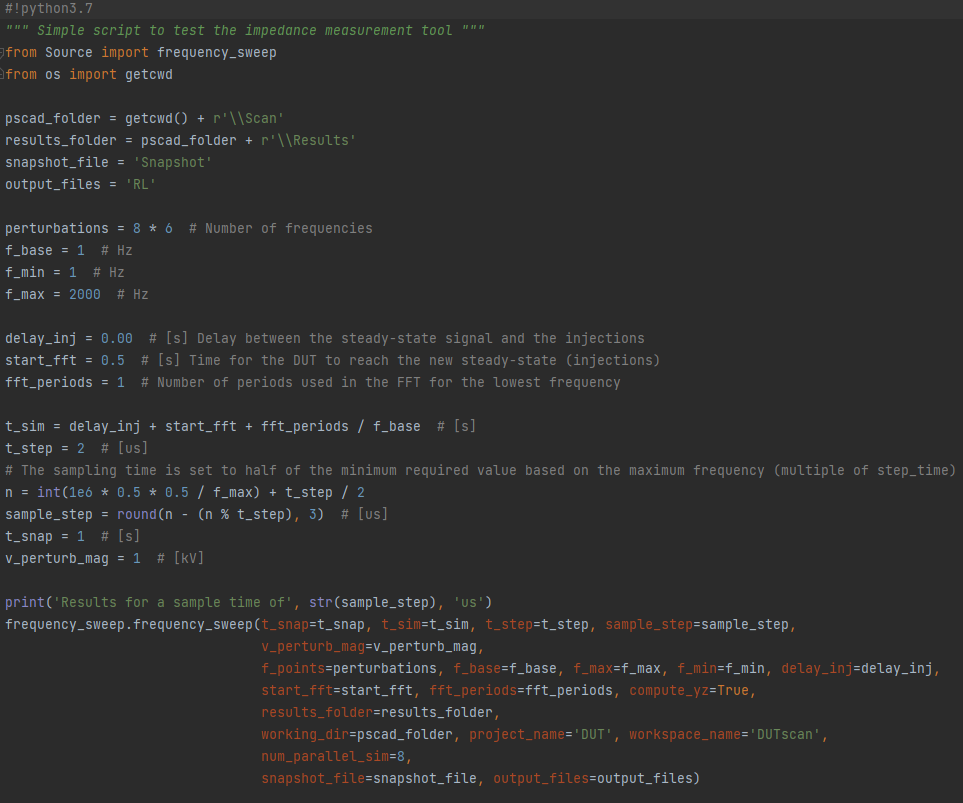
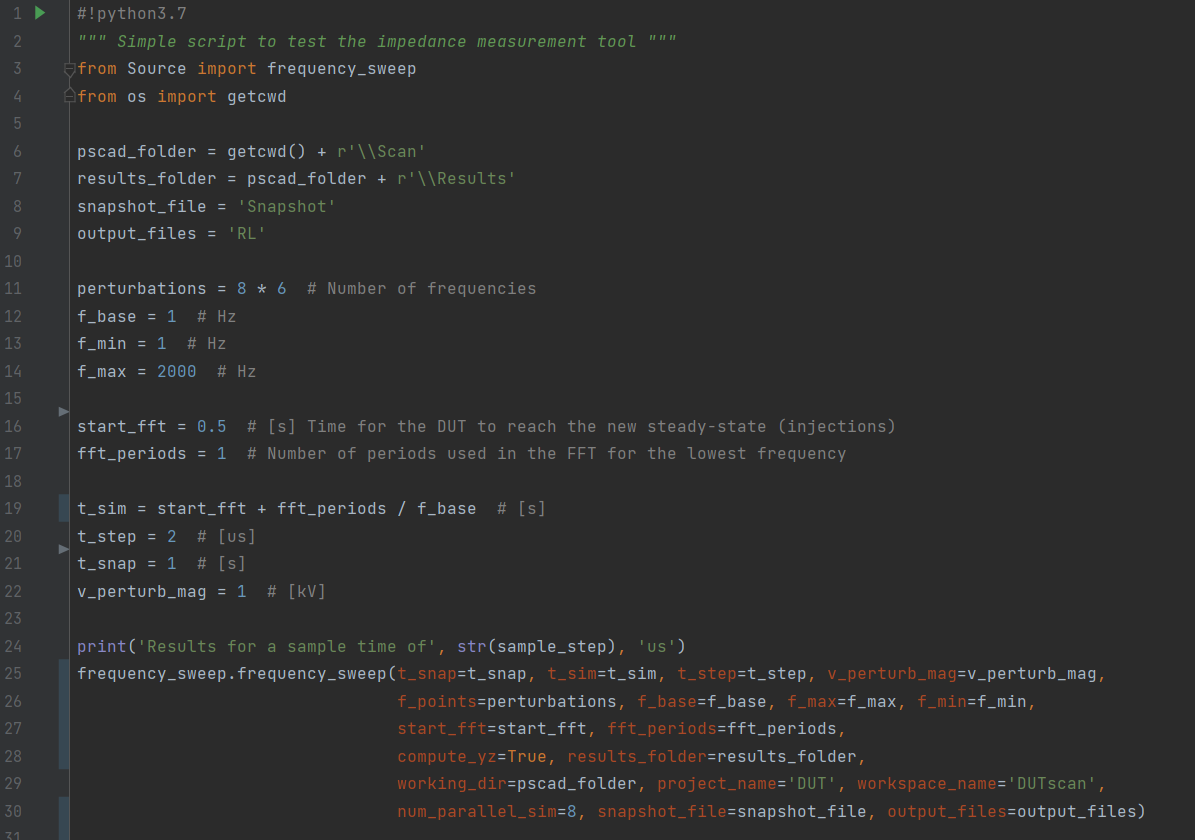
Sampling time computation update and note added regarding the dq-frame convention.

diff --git a/Examples/test_freq_sweep.py b/Examples/test_freq_sweep.py
@@ -13,24 +13,20 @@ f_base = 1  # Hz
 f_min = 1  # Hz
 f_max = 2000  # Hz
 
-delay_inj = 0.00  # [s] Delay between the steady-state signal and the injections
 start_fft = 0.5  # [s] Time for the DUT to reach the new steady-state (injections)
 fft_periods = 1  # Number of periods used in the FFT for the lowest frequency
 
-t_sim = delay_inj + start_fft + fft_periods / f_base  # [s]
+t_sim = start_fft + fft_periods / f_base  # [s]
 t_step = 2  # [us]
-# The sampling time is set to half of the minimum required value based on the maximum frequency (multiple of step_time)
-n = int(1e6 * 0.5 * 0.5 / f_max) + t_step / 2
-sample_step = round(n - (n % t_step), 3)  # [us]
 t_snap = 1  # [s]
 v_perturb_mag = 1  # [kV]
 
 print('Results for a sample time of', str(sample_step), 'us')
-frequency_sweep.frequency_sweep(t_snap=t_snap, t_sim=t_sim, t_step=t_step, sample_step=sample_step,
-                                v_perturb_mag=v_perturb_mag,
-                                f_points=perturbations, f_base=f_base, f_max=f_max, f_min=f_min, delay_inj=delay_inj,
-                                start_fft=start_fft, fft_periods=fft_periods, compute_yz=True,
-                                results_folder=results_folder,
+frequency_sweep.frequency_sweep(t_snap=t_snap, t_sim=t_sim, t_step=t_step, v_perturb_mag=v_perturb_mag,
+                                f_points=perturbations, f_base=f_base, f_max=f_max, f_min=f_min,
+                                start_fft=start_fft, fft_periods=fft_periods,
+                                compute_yz=True, results_folder=results_folder,
                                 working_dir=pscad_folder, project_name='DUT', workspace_name='DUTscan',
-                                num_parallel_sim=8,
-                                snapshot_file=snapshot_file, output_files=output_files)
+                                num_parallel_sim=8, snapshot_file=snapshot_file, output_files=output_files)
+
+

diff --git a/Source/frequency_sweep.py b/Source/frequency_sweep.py
@@ -8,7 +8,7 @@ from Source.tools import *
 
 def frequency_sweep(t_snap=None, t_sim=None, t_step=None, sample_step=None, v_perturb_mag=None,
                     freq=None, f_points=None, f_base=None, f_min=None, f_max=None, working_dir=None,
-                    delay_inj=0.001, freq_text_file='frequencies.txt', snapshot_file='Snapshot', take_snapshot=True,
+                    delay_inj=0.0, freq_text_file='frequencies.txt', snapshot_file='Snapshot', take_snapshot=True,
                     project_name='DUT', workspace_name='DUTscan',
                     fortran_ext=r'.gf46', num_parallel_sim=8, component_parameters=None,
                     results_folder=None, output_files='Perturbation', compute_yz=False, save_td=False,
@@ -20,9 +20,7 @@ def frequency_sweep(t_snap=None, t_sim=None, t_step=None, sample_step=None, v_pe
             'frequency_sweep) \n')
         return
     # If the sample time is not provided, it is set to half of the minimum required value (multiple of step_time)
-    if sample_step is None:
-        n = int(1e6 * 0.5 * 0.5 / f_max) + t_step / 2
-        sample_step = round(n - (n % t_step), 3)  # [us]
+    if sample_step is None:  sample_step = round(t_step*np.floor((1e6*0.5*0.5/f_max + t_step/2)/t_step), 3)  # [us]
     if working_dir is None:
         working_dir = getcwd() + '\\'  # Location of the PSCAD workspace
     else:

diff --git a/Examples/README.md b/Examples/README.md
@@ -15,16 +15,21 @@ Enviroment Variables... -> System variables -> PYTHONPATH -> Directory where _So
 ![Modify the path in system variables](img.png)
 
 ## Usage
-Firstly, let's open PSCAD to see what we are doing.
+After opening the PSCAD workspace we can see that there are several sections.
 ![Sections used for the PSCAD automation](img_1.png)
-The canvas shows four sections which are modified/used through Python so as to perform the frequency scan of the DUT.
-The right-most section includes user-defined parameters that can be changed when calling the frequency scan python function.
+The canvas shows four sections at the top which are modified/used through Python so as to perform the frequency scan of the DUT.
+The upper right-most section includes user-defined parameters that can be changed when calling the frequency scan python function.
 These parameters can be control settings, setpoints, etc. that we can use to fully characterize a device.
 
 Generally, the user needs to place the DUT in the canvas and connect it to the ideal 3 phase voltage source which is used
-to perform the voltage perturbations. In addition, the user needs to specify the steady-state voltage at the connection point (this value is used for initialization).
+to perform the voltage perturbations. In addition, the user needs to specify the steady-state voltage at the connection point.
 
 ![Location of the DUT connection in the canvas](img_4.png)
+
+_Care should be taken when it comes to the desired dq-frame convention:_ the q-axis position (lagging or leading) can be 
+modified by the Q-axis option of the **coordinate transformation** section (lagging by default).
+
+![Q-axis convention](img_7.png)
 
 The next step is to introduce the frequency scan parameters in the python script _test_freq_sweep.py_.
 The parameters, which are self-descriptive, are provided to the frequency_sweep function which is the main function of the package.
